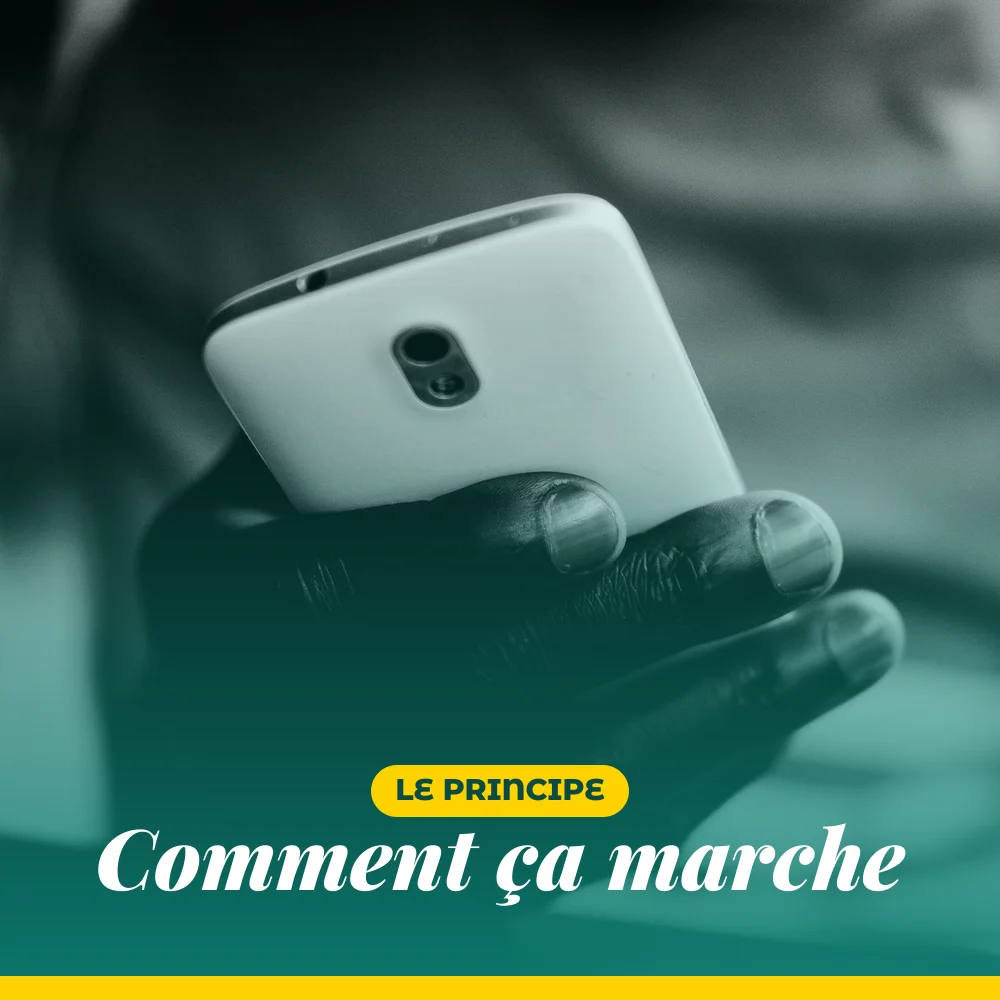
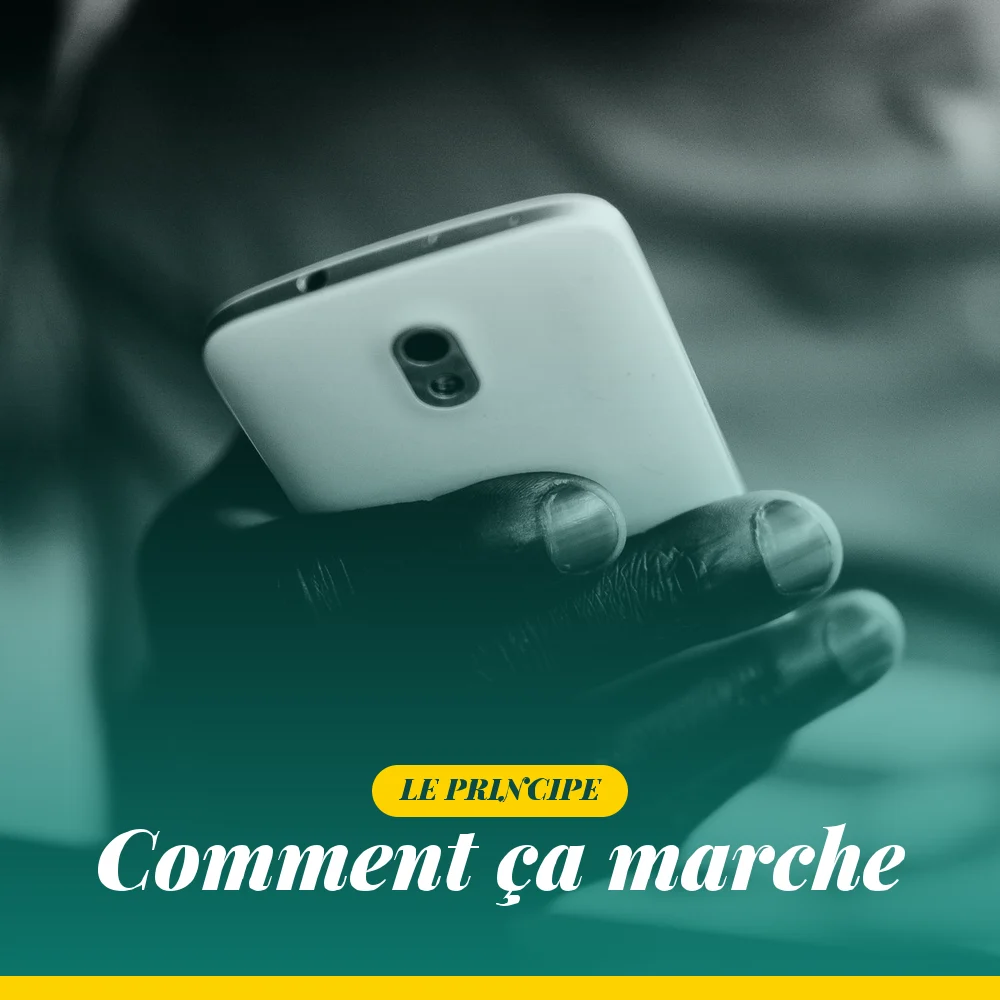
cartes: libelle aussi en Playfair (comme le titre) + fix rendu glyphes (serialisation manuelle du chemin, coordonnees entieres) contre les artefacts resvg (glyphes casses, points parasites)

Changed region(s): [[0.372, 0.775, 0.651, 0.806], [0.372, 0.837, 0.403, 0.868]]

diff --git a/src/lib/card.ts b/src/lib/card.ts
@@ -4,7 +4,6 @@
 //  - fetchPhoto   : récupère une photo Pexels en évitant les doublons (par id)
 import sharp from 'sharp';
 import opentype from 'opentype.js';
-import { FREDOKA_B64 } from './fredoka';
 import { PICTO_B64 } from './picto';
 import { PLAYFAIR_B64 } from './playfair';
 
@@ -12,6 +11,20 @@ import { PLAYFAIR_B64 } from './playfair';
 // tracés SVG via opentype.js (resvg ne la charge pas en @font-face).
 let TITLE_FONT: any = null;
 try { const _b = Buffer.from(PLAYFAIR_B64, 'base64'); TITLE_FONT = opentype.parse(_b.buffer.slice(_b.byteOffset, _b.byteOffset + _b.byteLength)); } catch { TITLE_FONT = null; }
+// Sérialisation manuelle du chemin, nombres séparés par des espaces + coordonnées ENTIÈRES.
+// (toPathData d'opentype colle les nombres et resvg les parse mal → glyphes cassés/points parasites.)
+function pathCmds(cmds: any[]): string {
+  const r = (n: number) => Math.round(n);
+  let d = '';
+  for (const c of cmds) {
+    if (c.type === 'M') d += `M ${r(c.x)} ${r(c.y)} `;
+    else if (c.type === 'L') d += `L ${r(c.x)} ${r(c.y)} `;
+    else if (c.type === 'C') d += `C ${r(c.x1)} ${r(c.y1)} ${r(c.x2)} ${r(c.y2)} ${r(c.x)} ${r(c.y)} `;
+    else if (c.type === 'Q') d += `Q ${r(c.x1)} ${r(c.y1)} ${r(c.x)} ${r(c.y)} `;
+    else if (c.type === 'Z') d += 'Z ';
+  }
+  return d.trim();
+}
 function titlePaths(text: string, size: number, cx: number, baseline: number, fill = '#ffffff'): string {
   if (!TITLE_FONT) return '';
   const s = size / TITLE_FONT.unitsPerEm;
@@ -19,18 +32,23 @@ function titlePaths(text: string, size: number, cx: number, baseline: number, fi
   let x = cx - w / 2, out = '';
   for (const ch of text) {
     const g = TITLE_FONT.charToGlyph(ch);
-    const d = g.getPath(x, baseline, size).toPathData(2);
-    if (d && d.length > 2) out += `<path d="${d}" fill="${fill}"/>`;
+    const d = pathCmds(g.getPath(x, baseline, size).commands);
+    if (d.length > 2) out += `<path d="${d}" fill="${fill}"/>`;
     x += g.advanceWidth * s;
   }
   return out;
 }
 
+function measureText(text: string, size: number): number {
+  if (!TITLE_FONT) return text.length * size * 0.5;
+  const s = size / TITLE_FONT.unitsPerEm;
+  let w = 0; for (const ch of text) w += TITLE_FONT.charToGlyph(ch).advanceWidth * s;
+  return w;
+}
+
 export function getPexelsKey(): string | undefined {
   return process.env.PEXELS_API_KEY || import.meta.env.PEXELS_API_KEY;
 }
-
-const esc = (s: string) => String(s).replace(/&/g, '&amp;').replace(/</g, '&lt;').replace(/>/g, '&gt;');
 
 // Récupère une photo pertinente en sautant les id déjà utilisés (anti-doublon).
 export async function fetchPhoto(key: string, query: string, orientation: 'square' | 'landscape', exclude: Set<number>): Promise<{ buf: Buffer; id: number } | null> {
@@ -85,17 +103,15 @@ export async function composeCard(photo: Buffer, kicker: string, cardTitle: stri
   const tSize = two ? 72 : 84;
   const kickerBase = two ? 760 : 800;
   const titleY = two ? [846, 846 + tSize + 14] : [hasKicker ? 890 : 872];
+  // Titre ET libellé en tracés Playfair (serif italique). Libellé = texte teal foncé sur pastille jaune.
   let kickerSvg = '';
   if (hasKicker) {
     const kSize = 30;
-    let w = 0; for (const ch of kick) w += ch === ' ' ? kSize * 0.34 : kSize * 0.64;
-    const bw = Math.round(w + 56), bx = Math.round(500 - bw / 2), by = kickerBase - 35;
-    kickerSvg = `<rect x="${bx}" y="${by}" width="${bw}" height="52" rx="26" fill="#FDD200"/><text x="500" y="${kickerBase}" text-anchor="middle" class="k">${esc(kick)}</text>`;
+    const bw = Math.round(measureText(kick, kSize) + 56), bx = Math.round(500 - bw / 2), by = kickerBase - 35;
+    kickerSvg = `<rect x="${bx}" y="${by}" width="${bw}" height="52" rx="26" fill="#FDD200"/>` + titlePaths(kick, kSize, 500, kickerBase, '#0B4A44');
   }
-  // Titre en tracés Playfair (serif italique) ; kicker en Fredoka via @font-face.
   const titleSvg = lines.map((ln, i) => titlePaths(ln, tSize, 500, titleY[i])).join('');
-  // NB: font-weight:800 obligatoire dans @font-face ET la classe, sinon resvg ignore la police embarquée.
-  const svg = `<svg width="1000" height="1000" xmlns="http://www.w3.org/2000/svg"><defs><style>@font-face{font-family:'F';src:url(data:font/ttf;base64,${FREDOKA_B64}) format('truetype');font-weight:800;} .k{font-family:'F';font-weight:800;font-size:30px;fill:#0B4A44;}</style><linearGradient id="g" x1="0" y1="0" x2="0" y2="1"><stop offset="0" stop-color="#0E8074" stop-opacity="0.06"/><stop offset="0.45" stop-color="#0E8074" stop-opacity="0.26"/><stop offset="1" stop-color="#0E8074" stop-opacity="0.94"/></linearGradient></defs><rect width="1000" height="1000" fill="url(#g)"/>${kickerSvg}${titleSvg}<rect x="0" y="976" width="1000" height="24" fill="#FDD200"/></svg>`;
+  const svg = `<svg width="1000" height="1000" xmlns="http://www.w3.org/2000/svg"><defs><linearGradient id="g" x1="0" y1="0" x2="0" y2="1"><stop offset="0" stop-color="#0E8074" stop-opacity="0.06"/><stop offset="0.45" stop-color="#0E8074" stop-opacity="0.26"/><stop offset="1" stop-color="#0E8074" stop-opacity="0.94"/></linearGradient></defs><rect width="1000" height="1000" fill="url(#g)"/>${kickerSvg}${titleSvg}<rect x="0" y="976" width="1000" height="24" fill="#FDD200"/></svg>`;
   try {
     return await sharp(photo).resize(1000, 1000, { fit: 'cover', position: 'attention' }).composite([{ input: Buffer.from(svg) }]).webp({ quality: 86 }).toBuffer();
   } catch { return null; }
